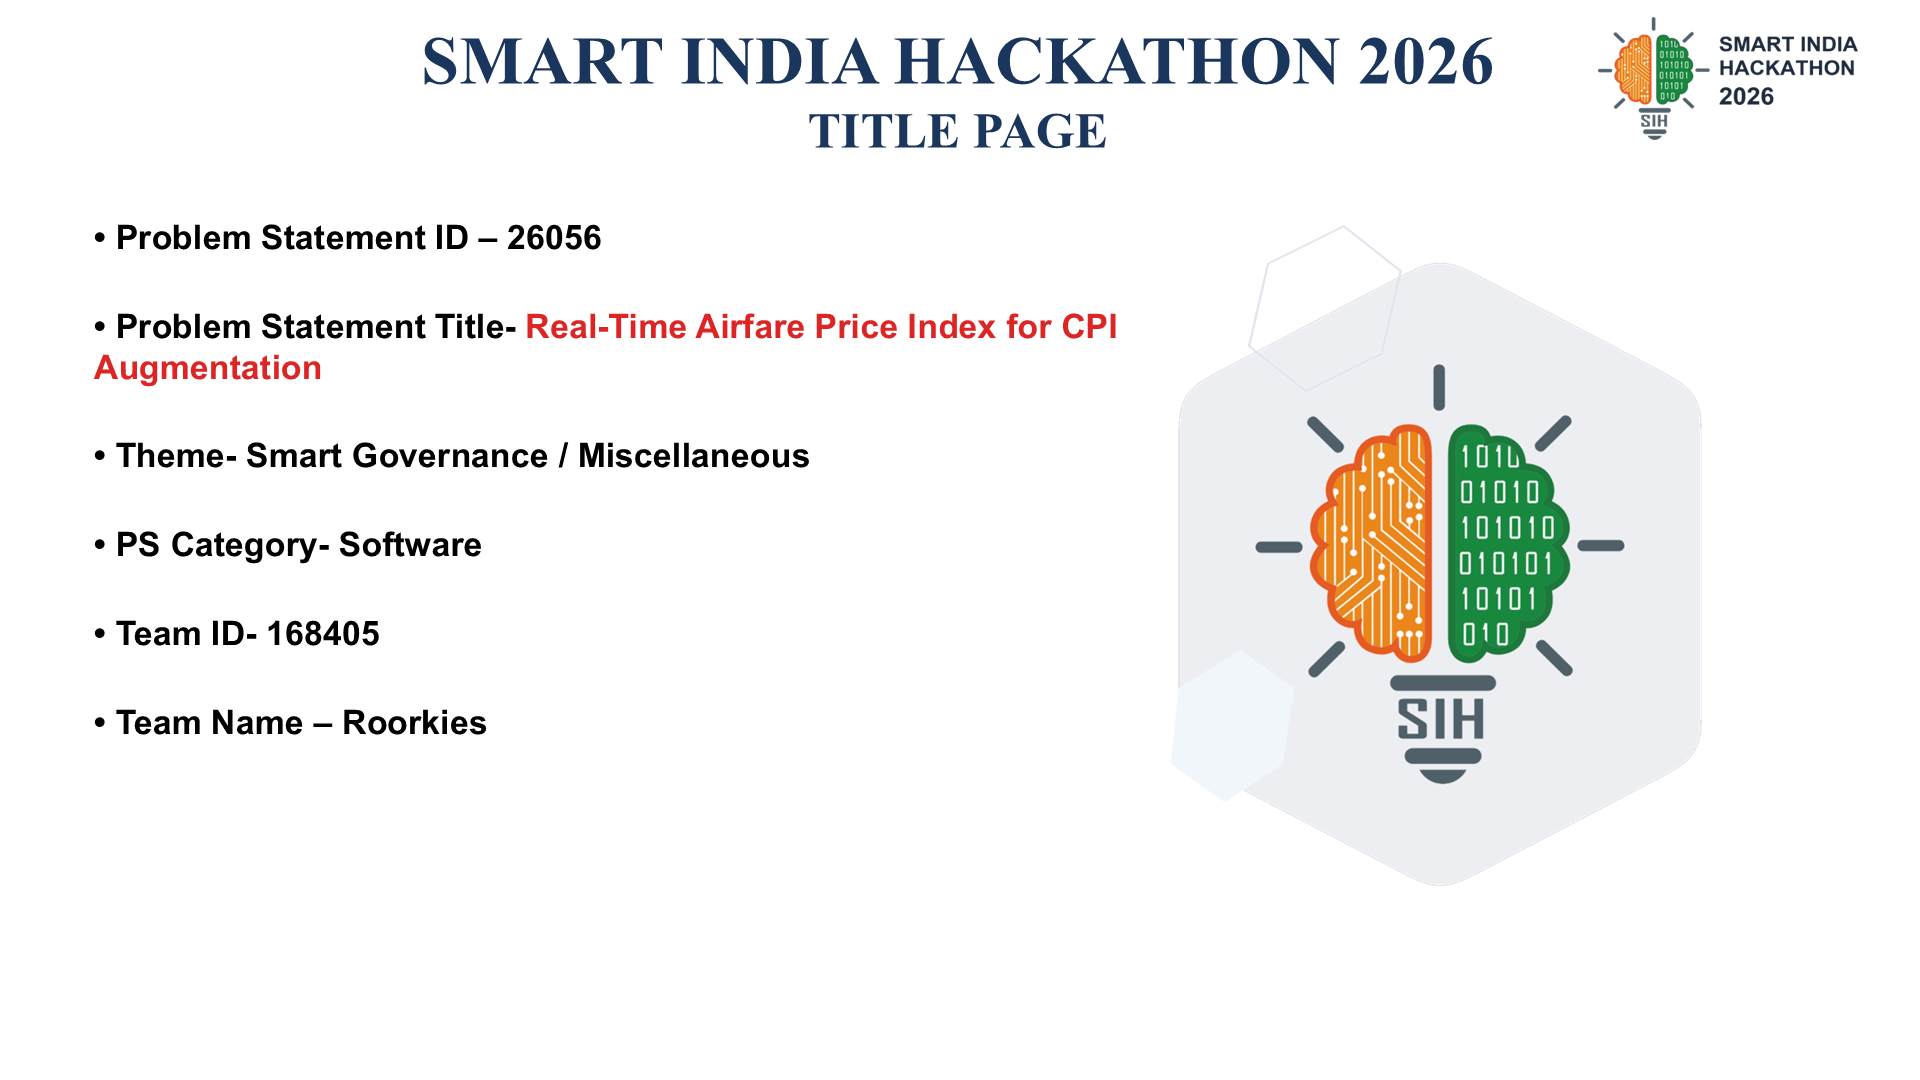
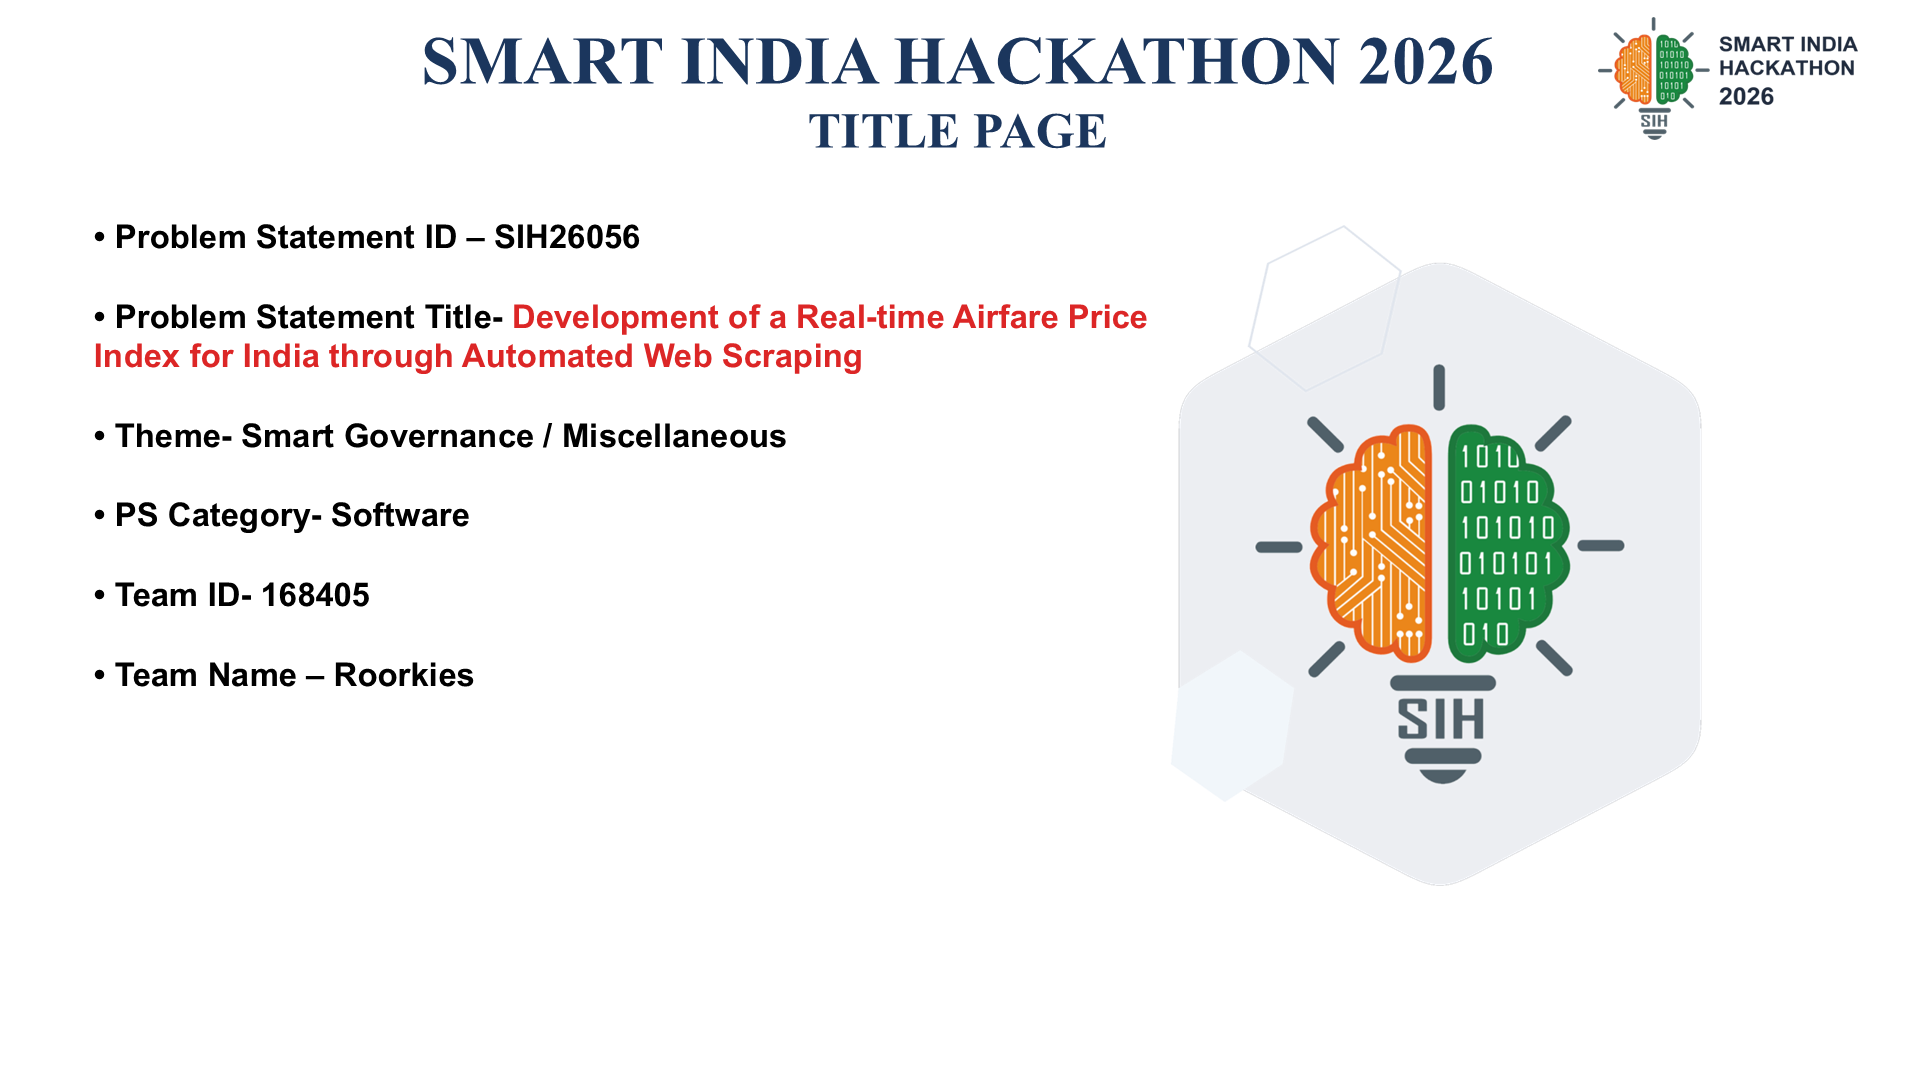
feat(presentation): update Problem Statement ID to SIH26056 and Title on Slide 1

diff --git a/scratch/generate_final_perfect_sih_slides.py b/scratch/generate_final_perfect_sih_slides.py
@@ -110,8 +110,8 @@ def create_final_presentation(output_path):
     tf_s1.margin_left = tf_s1.margin_top = tf_s1.margin_right = tf_s1.margin_bottom = 0
 
     s1_items = [
-        ("• Problem Statement ID –", "26056", False),
-        ("• Problem Statement Title-", "Real-Time Airfare Price Index for CPI Augmentation", True),
+        ("• Problem Statement ID –", "SIH26056", False),
+        ("• Problem Statement Title-", "Development of a Real-time Airfare Price Index for India through Automated Web Scraping", True),
         ("• Theme-", "Smart Governance / Miscellaneous", False),
         ("• PS Category-", "Software", False),
         ("• Team ID-", "168405", False),
@@ -120,20 +120,20 @@ def create_final_presentation(output_path):
 
     for idx, (label, val, is_red) in enumerate(s1_items):
         p = tf_s1.add_paragraph() if idx > 0 else tf_s1.paragraphs[0]
-        p.space_before = Pt(12)
-        p.space_after = Pt(12)
+        p.space_before = Pt(10)
+        p.space_after = Pt(10)
 
         r_lbl = p.add_run()
         r_lbl.text = label + " "
         r_lbl.font.name = "Arial"
-        r_lbl.font.size = Pt(17)
+        r_lbl.font.size = Pt(16.5)
         r_lbl.font.bold = True
         r_lbl.font.color.rgb = C_BLACK
 
         r_val = p.add_run()
         r_val.text = val
         r_val.font.name = "Arial"
-        r_val.font.size = Pt(17)
+        r_val.font.size = Pt(16.5)
         r_val.font.bold = True
         r_val.font.color.rgb = C_RED_TEMPLATE if is_red else C_BLACK
 
